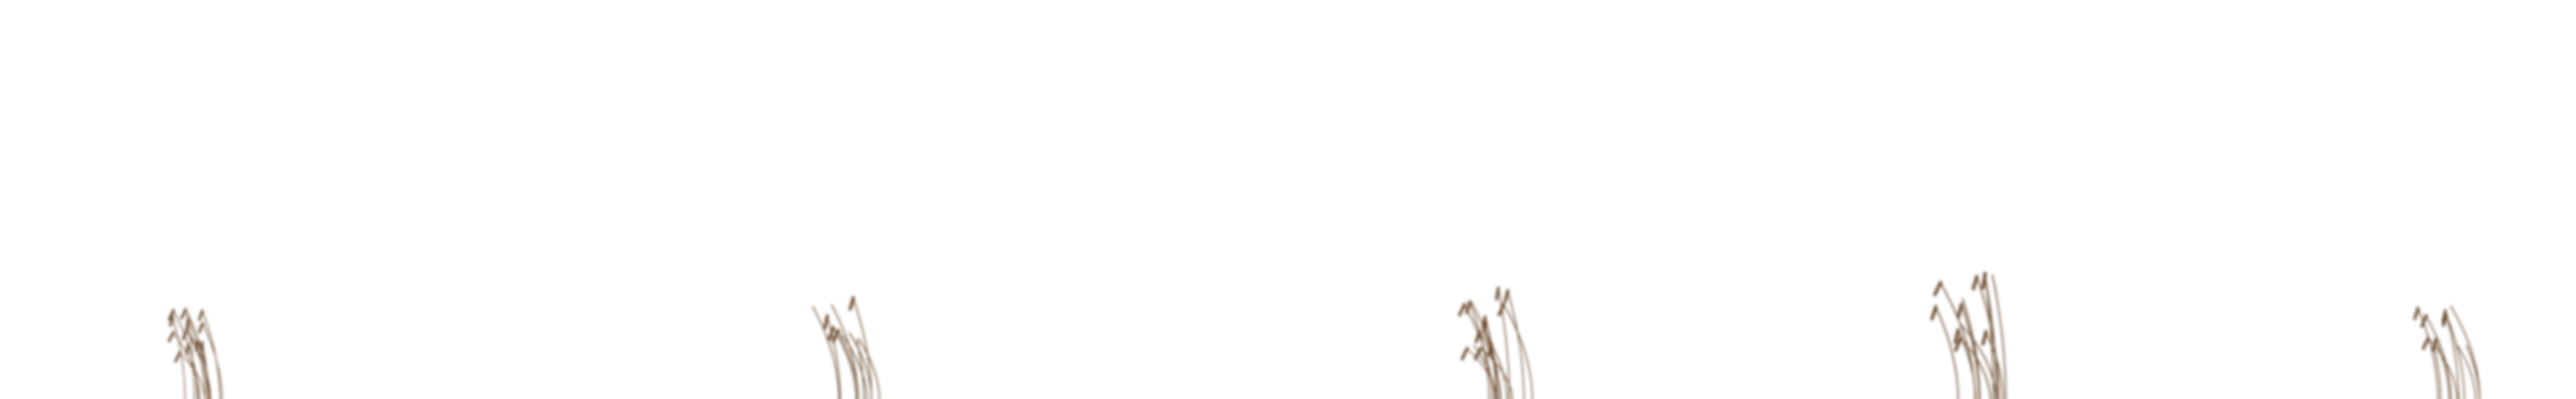
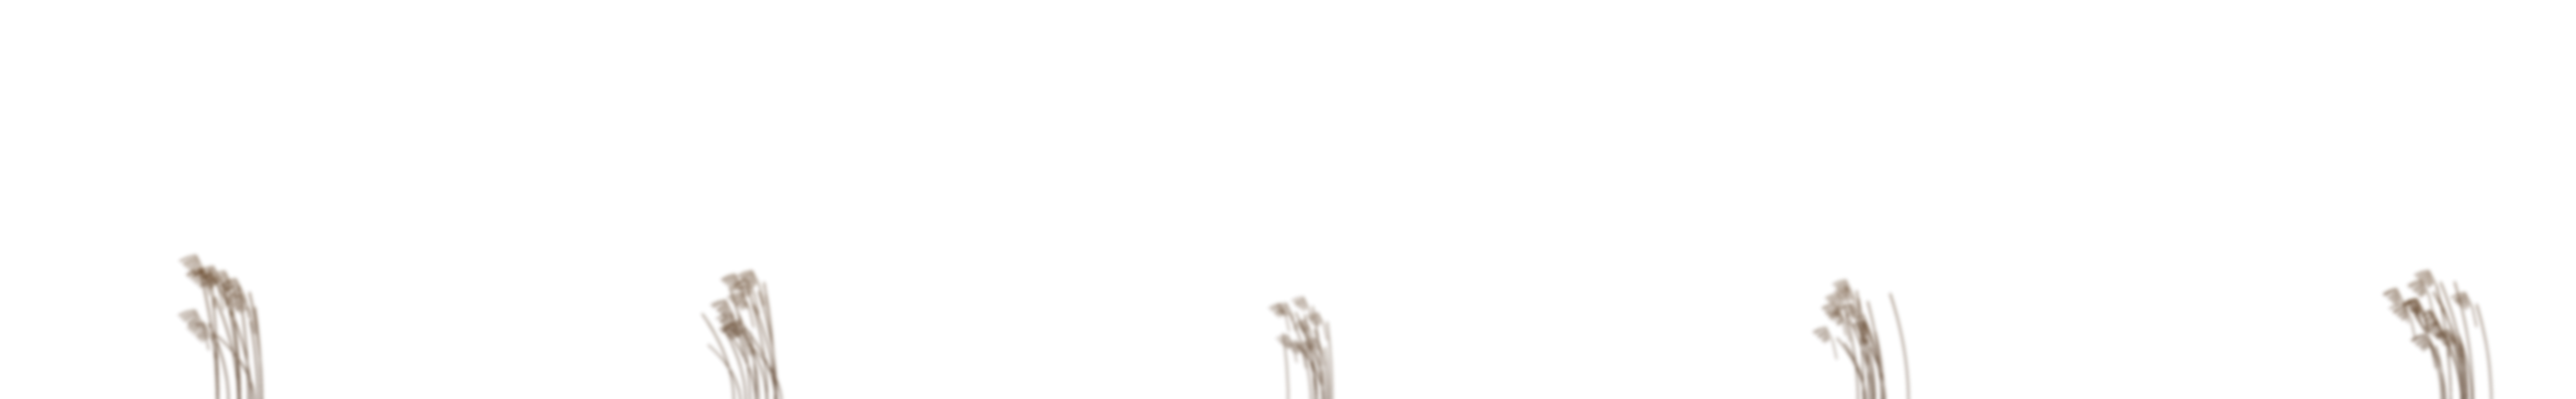
배경 그림 마무리(질감·빛·흐림)와 입체 구름, 억새 이삭 (#140)
클립아트처럼 납작하다는 의견을 받아 그린 뒤 픽셀로 손을 보는 과정을 더했다.
- painterly(): 도형 안 세로 빛(위 따뜻하게, 아래 하늘빛 그늘), 해 쪽 가장자리 빛과
  반대쪽 그늘(모양마다 저절로), 가로로 긴 붓결과 종이 낟알, 깊이 흐림(먼 층·맨 앞 층).
  층 이름별 값은 PAINT 표, 장소마다 finish()로 건다. 조각 경계에 테두리가 생기지 않게.
- paint_clouds(): 덩어리를 부드럽게 합친 뭉게구름. 해 쪽이 밝고 아랫면은 평평하게
  그늘지며 해 가까운 아랫면은 노을빛.
- 들판: 산을 낮추고, 은빛 억새 이삭(_plume)을 밭과 언덕, 앞 층 덤불에.
- 장소 그리기를 tools/painters/<place>.py로 나눌 수 있게(painter_for).

Claude-Session: https://claude.ai/code/session_01J4uuBjb9dFExxEE8Rhw3pJ

diff --git a/tools/placeholder_art.py b/tools/placeholder_art.py
@@ -82,6 +82,7 @@ class Layer:
         self.background = background  # 1x, 층 전체 폭 (하늘처럼 픽셀로 만든 바탕)
         self.blur_groups: list[tuple[list[tuple], float]] = []  # (도형들, 흐림 반지름) 도형 아래
         self.haze_groups: list[tuple[list[tuple], float]] = []  # 도형 위
+        self.post = None  # (tile, x0) -> tile. 그림 마무리(질감·빛·흐림, painterly)
 
     def rect(self, x0, y0, x1, y1, color):
         self.poly([(x0, y0), (x1, y0), (x1, y1), (x0, y1)], color)
@@ -158,7 +159,164 @@ class Layer:
         if self.background is not None:
             bg = self.background.crop((x0, 0, x0 + w, H))
             tile = Image.alpha_composite(bg, tile)
+        if self.post is not None:
+            tile = self.post(tile, x0)
         return tile
+
+
+
+# ---------------------------------------------------------------- 그림 마무리 (painterly, #140)
+#
+# 단색 도형만으로는 클립아트처럼 납작하다. 층을 그린 뒤 픽셀로 손을 본다.
+#   1. 도형 안 세로 빛: 위는 밝고 따뜻하게, 아래는 어둡고 차갑게(하늘빛 그늘).
+#   2. 해 쪽(오른쪽 위) 가장자리 빛, 반대쪽 가장자리 그늘 — 모양마다 저절로.
+#   3. 붓결 질감: 가로로 긴 결(붓질)과 고운 낟알(종이). 모양 안에서만.
+#   4. 깊이 흐림: 먼 층과 맨 앞 층은 초점이 나간 듯.
+# 값은 층 이름(PAINT)으로 정한다. 같은 장소의 층은 같은 해 방향·빛 색을 쓴다(paint_light).
+
+PAINT = {
+    #           흐림  결    낟알   위밝기 아래어둠 테두리 그늘
+    "sky":     (0.0, 0.020, 0.012, 0.00, 0.00, 0.0, 0.0),
+    "horizon": (2.2, 0.030, 0.010, 0.06, 0.10, 0.35, 0.10),
+    "far":     (1.4, 0.040, 0.012, 0.08, 0.14, 0.55, 0.16),
+    "hills":   (0.9, 0.050, 0.014, 0.10, 0.18, 0.75, 0.22),
+    "mid":     (0.5, 0.060, 0.016, 0.12, 0.22, 0.85, 0.26),
+    "near":    (0.0, 0.070, 0.018, 0.12, 0.26, 1.00, 0.30),
+    "ground":  (0.0, 0.060, 0.020, 0.06, 0.20, 0.50, 0.20),
+    "props":   (0.0, 0.050, 0.016, 0.08, 0.20, 0.90, 0.30),
+    "front":   (3.0, 0.040, 0.010, 0.00, 0.20, 0.30, 0.10),
+}
+
+
+def _hash_noise(xs: np.ndarray, ys: np.ndarray, sx: float, sy: float, seed: int) -> np.ndarray:
+    """값 잡음(0~1). 세계 좌표 xs·ys 격자(크기 sx×sy)에서 매끄럽게 이어진다(조각끼리 이음매 없음)."""
+    gx, gy = xs / sx, ys / sy
+    ix, iy = np.floor(gx).astype(np.int64), np.floor(gy).astype(np.int64)
+    fx, fy = gx - ix, gy - iy
+    fx, fy = fx * fx * (3 - 2 * fx), fy * fy * (3 - 2 * fy)
+
+    def h(a, b):
+        v = (a * 73856093) ^ (b * 19349663) ^ (seed * 83492791)
+        v = (v ^ (v >> 13)) * 1274126177
+        return ((v ^ (v >> 16)) & 0xFFFF) / 65535.0
+
+    a, b = h(ix, iy), h(ix + 1, iy)
+    c, d = h(ix, iy + 1), h(ix + 1, iy + 1)
+    return (a + (b - a) * fx) * (1 - fy) + (c + (d - c) * fx) * fy
+
+
+def _shift(a: np.ndarray, dx: int, dy: int) -> np.ndarray:
+    """a를 (dx, dy)만큼 민다. out[y, x] = a[y + dy, x + dx]. 밖은 가장자리 값을 늘려 쓴다
+    (조각 경계에서 테두리 빛이 생기지 않게)."""
+    hgt, wid = a.shape
+    yi = np.clip(np.arange(hgt) + dy, 0, hgt - 1)
+    xi = np.clip(np.arange(wid) + dx, 0, wid - 1)
+    return a[yi][:, xi]
+
+
+def painterly(name: str, seed: int, light: tuple[int, int, int], shade: tuple[int, int, int]):
+    """층 이름에 맞는 마무리 함수를 만든다. light = 해빛 색, shade = 그늘에 섞을 하늘빛."""
+    blur, streak, grain, top, bottom, rim, dark = PAINT[name]
+
+    def post(tile: Image.Image, x0: int) -> Image.Image:
+        arr = np.asarray(tile).astype(np.float32) / 255.0
+        rgb, a = arr[:, :, :3], arr[:, :, 3]
+        hgt, wid = a.shape
+        yy, xx = np.mgrid[0:hgt, 0:wid].astype(np.float32)
+        xx += x0
+        if name != "sky":
+            # 1. 세로 빛: 모양이 있는 줄의 위·아래에 맞춰
+            rows = np.where(a.max(axis=1) > 0.02)[0]
+            if rows.size:
+                y0, y1 = float(rows[0]), float(rows[-1])
+                t = np.clip((yy - y0) / max(y1 - y0, 1.0), 0, 1)[:, :, None]
+                lit = np.array(light, np.float32) / 255.0
+                sh = np.array(shade, np.float32) / 255.0
+                rgb = rgb + (lit - rgb) * (1 - t) * top
+                rgb = rgb * (1 - t * bottom) + sh * t * bottom * 0.5
+            # 2. 가장자리 빛·그늘(해는 오른쪽 위)
+            d = 3
+            edge_lit = np.clip(a - _shift(a, d, -d), 0, 1)
+            edge_dark = np.clip(a - _shift(a, -d * 2, d * 2), 0, 1)
+            el = np.asarray(Image.fromarray((edge_lit * 255).astype(np.uint8)).filter(ImageFilter.GaussianBlur(1.6))).astype(np.float32) / 255.0
+            ed = np.asarray(Image.fromarray((edge_dark * 255).astype(np.uint8)).filter(ImageFilter.GaussianBlur(4))).astype(np.float32) / 255.0
+            lit = np.array(light, np.float32) / 255.0
+            rgb = rgb + (lit - rgb) * (el * rim * 0.8)[:, :, None]
+            rgb = rgb * (1 - (ed * dark)[:, :, None])
+        # 3. 붓결(가로로 긴 결) + 낟알
+        n = (_hash_noise(xx, yy, 90, 9, seed) - 0.5) * 0.6 + (_hash_noise(xx, yy, 26, 4, seed + 1) - 0.5) * 0.4
+        g = _hash_noise(xx, yy, 2.2, 2.2, seed + 2) - 0.5
+        rgb = rgb * (1 + (n * streak * 2 + g * grain * 2))[:, :, None]
+        arr = np.concatenate([np.clip(rgb, 0, 1), a[:, :, None]], axis=2)
+        out = Image.fromarray((arr * 255 + 0.5).astype(np.uint8), "RGBA")
+        # 4. 깊이 흐림(미리 곱한 알파로 흐려 가장자리가 검게 번지지 않게)
+        if blur > 0:
+            pm = np.asarray(out).astype(np.float32)
+            pm[:, :, :3] *= pm[:, :, 3:4] / 255.0
+            bl = np.asarray(Image.fromarray(pm.astype(np.uint8), "RGBA").filter(ImageFilter.GaussianBlur(blur))).astype(np.float32)
+            al = np.maximum(bl[:, :, 3:4], 1e-3)
+            bl[:, :, :3] = np.where(al > 1, bl[:, :, :3] * 255.0 / al, 0)
+            out = Image.fromarray(np.clip(bl, 0, 255).astype(np.uint8), "RGBA")
+        return out
+
+    return post
+
+
+def finish(layers: dict[str, "Layer"], place_id: str, light: tuple[int, int, int], shade: tuple[int, int, int]) -> dict[str, "Layer"]:
+    """장소의 모든 층에 그림 마무리를 건다(같은 해빛·그늘 색)."""
+    for name, layer in layers.items():
+        if name in PAINT:
+            layer.post = painterly(name, abs(hash((place_id, name))) % 100000, light, shade)
+    return layers
+
+
+
+def paint_clouds(img: Image.Image, rng: random.Random, n: int, w: int, y0: float, y1: float,
+                 sun: tuple[float, float], lit: tuple[int, int, int], shade: tuple[int, int, int],
+                 glow: tuple[int, int, int], size: tuple[float, float] = (300, 640)) -> None:
+    """뭉게구름을 하늘 그림에 직접 칠한다(img를 바꾼다). 둥근 덩어리 여럿을 잡음으로 흔든 모양,
+    해 쪽 위는 밝고 아래는 평평하게 그늘지고, 해에 가까운 아랫면은 노을빛으로 물든다."""
+    arr = np.asarray(img).astype(np.float32)
+    seed = rng.randint(0, 99999)
+    for k in range(n):
+        cx, cy = rng.uniform(0, w), rng.uniform(y0, y1)
+        cw = rng.uniform(*size)
+        puffs = []
+        for _ in range(rng.randint(6, 10)):
+            ox = rng.uniform(-0.45, 0.45) * cw
+            r = rng.uniform(0.10, 0.2) * cw * (1.25 - abs(ox) / cw)
+            puffs.append((cx + ox, cy - rng.uniform(0.0, 0.9) * r, r))
+        base = cy + cw * 0.06  # 평평한 아랫면
+        bx0, bx1 = int(max(0, cx - cw * 0.75)), int(min(w, cx + cw * 0.75))
+        by0, by1 = int(max(0, cy - cw * 0.45)), int(min(img.height, base + 20))
+        if bx1 <= bx0 or by1 <= by0:
+            continue
+        yy, xx = np.mgrid[by0:by1, bx0:bx1].astype(np.float32)
+        # 덩어리들을 부드럽게 합친 밀도(작은 최솟값 대신 지수 합 — 이음매가 없다)
+        acc = np.zeros_like(xx)
+        for px, py, r in puffs:
+            dx, dy = (xx - px) / r, (yy - py) / r
+            acc += np.exp(-(dx * dx + dy * dy) * 2.2)
+        dens = acc - 0.35
+        dens += (_hash_noise(xx, yy, 22, 16, seed + k) - 0.5) * 0.12 * np.clip(acc * 3, 0, 1)
+        dens *= np.clip((base - yy) / 14.0, 0, 1)  # 아랫면을 자른다
+        a = np.clip(dens / 0.16, 0, 1)
+        # 빛: 밀도의 기울기를 표면 방향으로 보고, 해 쪽(오른쪽 위)을 향한 면이 밝다
+        gy, gx = np.gradient(np.asarray(Image.fromarray(np.clip(acc * 80, 0, 255).astype(np.uint8)).filter(ImageFilter.GaussianBlur(6))).astype(np.float32))
+        gl = np.sqrt(gx * gx + gy * gy) + 1e-3
+        nx, ny = -gx / gl, -gy / gl
+        sdx, sdy = sun[0] - cx, sun[1] - cy
+        sl = math.hypot(sdx, sdy) or 1.0
+        light = np.clip(0.68 + 0.34 * (nx * sdx / sl * 0.7 - ny * 0.7), 0, 1)
+        under = np.clip((yy - (cy - cw * 0.05)) / (base - cy + cw * 0.05 + 1), 0, 1)
+        light = light * (1 - under * 0.55)
+        near_sun = max(0.0, 1 - abs(cx - sun[0]) / 1200.0)
+        lit_c, sh_c, gl_c = (np.array(c, np.float32) for c in (lit, shade, glow))
+        col = sh_c + (lit_c - sh_c) * light[:, :, None]
+        col = col + (gl_c - col) * (under * (0.35 + near_sun * 0.5))[:, :, None] * (1 - light[:, :, None] * 0.5)
+        reg = arr[by0:by1, bx0:bx1, :3]
+        arr[by0:by1, bx0:bx1, :3] = reg + (col - reg) * (a * 0.95)[:, :, None]
+    img.paste(Image.fromarray(np.clip(arr, 0, 255).astype(np.uint8), "RGBA"))
 
 
 def vertical_gradient(width: int, stops: list[tuple[float, tuple[int, int, int]]]) -> Image.Image:
@@ -311,6 +469,19 @@ def _hay_bale(L: Layer, x: float, y: float, r: float, body: Color, lit: Color, s
     L.ellipse((x + r * 0.1, y - r * 1.45, x + r * 0.7, y - r * 0.45), _with_alpha(body, 120))
 
 
+def _plume(L: Layer, rng: random.Random, x: float, y: float, size: float, color: Color, stem: Color, lean: float = -1.0) -> None:
+    """억새 이삭: 휘어진 줄기 끝에 가는 털 여러 가닥이 바람 쪽(왼쪽)으로 흩날린다."""
+    tx, ty = x + lean * size * 0.35, y - size
+    L.line([(x, y), (x + lean * size * 0.12, y - size * 0.55), (tx, ty)], stem, max(1.0, size * 0.025))
+    for k in range(7):
+        t = k / 6
+        sx, sy = tx - lean * size * 0.02 * k, ty + size * 0.06 * k
+        ln = size * (0.42 - t * 0.18)
+        ang = math.radians(200 + t * 35 + rng.uniform(-8, 8)) if lean < 0 else math.radians(-20 - t * 35)
+        ex, ey = sx + math.cos(ang) * ln, sy - math.sin(ang) * ln * 0.35 + ln * 0.25
+        L.line([(sx, sy), ((sx + ex) / 2, (sy + ey) / 2 - ln * 0.06), (ex, ey)], color, max(1.0, size * 0.03))
+
+
 def _grass_tuft(L: Layer, rng: random.Random, x: float, base: float, scale: float, stem: Color, tip: Color, n: int) -> None:
     """들풀 한 포기: 휘어진 잎 여럿 + 끝의 밝은 이삭. 바람에 왼쪽으로 눕는다."""
     for _ in range(n):
@@ -319,11 +490,9 @@ def _grass_tuft(L: Layer, rng: random.Random, x: float, base: float, scale: floa
         lean = rng.uniform(-90, -15) * scale
         pts = [(bx + lean * (i / 10) ** 2, base - h * i / 10) for i in range(11)]
         L.line(pts, stem, max(1.4, 3.0 * scale))
-        if rng.random() < 0.7:  # 이삭(밀 이삭처럼 낟알 몇)
+        if rng.random() < 0.6:  # 억새 이삭
             tx, ty = pts[-1]
-            for k in range(5):
-                L.ellipse((tx + lean * 0.04 * k - 4 * scale, ty + k * 7 * scale - 5 * scale,
-                           tx + lean * 0.04 * k + 4 * scale, ty + k * 7 * scale + 5 * scale), tip)
+            _plume(L, rng, tx, ty + 60 * scale, 90 * scale, tip, stem)
 
 
 
@@ -429,17 +598,8 @@ def field(width: float, markers: dict[str, float]) -> dict[str, Layer]:
         rays.append(("poly", [(sun_x, sun_y), (sun_x + math.cos(a) * ln, sun_y + math.sin(a) * ln),
                               (sun_x + math.cos(a2) * ln, sun_y + math.sin(a2) * ln)], rgba(255, 236, 196, 46)))
     L.haze(rays, 18)
-    for _ in range(7):  # 뭉게구름: 아랫면이 해빛에 물든다
-        cx, cy = rng.uniform(0, w), rng.uniform(170, 430)
-        cw = rng.uniform(320, 620)
-        body, lit = [], []
-        for _ in range(rng.randint(5, 8)):
-            ox, r = rng.uniform(-0.45, 0.45) * cw, rng.uniform(0.12, 0.22) * cw
-            oy = rng.uniform(-0.6, 0.0) * r
-            body.append(("ellipse", (cx + ox - r, cy + oy - r * 0.62, cx + ox + r, cy + oy + r * 0.62), rgba(250, 238, 226, 200)))
-            lit.append(("ellipse", (cx + ox - r * 0.9, cy + oy + r * 0.05, cx + ox + r * 0.95, cy + oy + r * 0.62), rgba(255, 206, 160, 170)))
-        L.blur_groups.append((body, 2.5))
-        L.haze(lit, 4)
+    paint_clouds(sky, rng, 7, w, 160, 430, (sun_x, sun_y),
+                 lit=(255, 247, 234), shade=(196, 176, 200), glow=(255, 196, 150))
     L.ellipse((sun_x - 40, sun_y - 40, sun_x + 40, sun_y + 40), rgba(255, 250, 232))
     deco = random.Random("field_deco")
     wisps = []
@@ -454,7 +614,7 @@ def field(width: float, markers: dict[str, float]) -> dict[str, Layer]:
     # 지평선: 아주 먼 산맥. 거의 하늘색에 묻힌다.
     w = layer_width(width, "horizon")
     layers["horizon"] = L = Layer(w)
-    pts = ridge(rng, w, 470, 170, waves=4)
+    pts = ridge(rng, w, 535, 105, waves=4)
     _rim_ridge(L, pts, _fog((104, 126, 184), 0.5), rgba(*FIELD_RIM, 200), 2)
     _slope_shade(L, pts, rgba(80, 92, 150, 70), 260, 30)
     L.haze([("poly", [(-20, 560), (w + 20, 560), (w + 20, 640), (-20, 640)], rgba(*FIELD_HAZE, 150))], 30)
@@ -463,7 +623,7 @@ def field(width: float, markers: dict[str, float]) -> dict[str, Layer]:
     w = layer_width(width, "far")
     layers["far"] = L = Layer(w)
     body = _fog((104, 92, 132), 0.36)
-    pts = ridge(rng, w, 575, 95, waves=3)
+    pts = ridge(rng, w, 600, 70, waves=3)
     _rim_ridge(L, pts, body, rgba(*FIELD_RIM, 210), 2.5)
     _slope_shade(L, pts, rgba(70, 62, 110, 80), 200, 24)
     for vx in (rng.uniform(600, 1400), rng.uniform(2600, 3600)):
@@ -535,6 +695,12 @@ def field(width: float, markers: dict[str, float]) -> dict[str, Layer]:
         x = rng.uniform(0, w)
         y = _ridge_y(hill, x) + rng.uniform(8, 40)
         L.line([(x, y), (x + rng.uniform(60, 160), y + rng.uniform(2, 8))], _fog((186, 150, 90), 0.2, 150), 2)
+    plume_rng = random.Random("field_mid_plumes")
+    for _ in range(int(w / 12)):  # 먼 억새밭: 언덕 위 은빛 결
+        x = plume_rng.uniform(0, w)
+        y0 = _ridge_y(hill, x) + plume_rng.uniform(4, 30)
+        sz = plume_rng.uniform(12, 22)
+        _plume(L, plume_rng, x, y0, sz, _fog((236, 224, 200), 0.15, 200), _fog((150, 116, 70), 0.15, 160))
     x = rng.uniform(100, 400)
     while x < w:
         _blob_tree(L, rng, x, _ridge_y(hill, x) + 6, rng.uniform(34, 54), _fog((96, 80, 46), 0.1), rim)
@@ -576,6 +742,13 @@ def field(width: float, markers: dict[str, float]) -> dict[str, Layer]:
         h = rng.uniform(14, 40)
         lean = rng.uniform(-10, -3)
         L.line([(x, y0), (x + lean, y0 - h)], lerp_color(_fog((150, 108, 52), 0.05), rgba(250, 222, 150), rng.random() ** 1.5), rng.uniform(1.2, 2.2))
+    plume_rng = random.Random("field_plumes")
+    for _ in range(int(w / 16)):  # 억새 이삭: 밭 띠 위로 은빛 털이 흩날린다
+        x = plume_rng.uniform(0, w)
+        y0 = _ridge_y(band, x) + plume_rng.uniform(10, 46)
+        sz = plume_rng.uniform(30, 52)
+        c = lerp_color(rgba(214, 192, 160, 150), rgba(250, 236, 210, 180), plume_rng.random())
+        _plume(L, plume_rng, x, y0, sz, c, rgba(160, 120, 70, 200))
     flower_cols = [rgba(214, 64, 48), rgba(232, 92, 60), rgba(246, 240, 226), rgba(156, 124, 196), rgba(250, 214, 96)]
     x = 0.0
     while x < w:  # 들꽃 무리: 한 색이 모여 핀다
@@ -664,7 +837,7 @@ def field(width: float, markers: dict[str, float]) -> dict[str, Layer]:
         _grass_tuft(tuft, rng, x, H + 10, rng.uniform(0.8, 1.3), rgba(96, 62, 30, 235), rgba(150, 100, 44, 235), rng.randint(10, 16))
         L.under(tuft.shapes, 4)
         x += rng.uniform(900, 1900)
-    return layers
+    return finish(layers, "field", (255, 222, 168), (96, 108, 168))
 
 
 def sag(xa: float, ya: float, xb: float, yb: float, depth: float, n: int = 16) -> list[tuple[float, float]]:
@@ -1976,9 +2149,23 @@ PAINTERS = {
 }
 
 
+def painter_for(place_id: str):
+    """장소 그리기 함수. tools/painters/<place_id>.py에 paint(width, markers)가 있으면 그것을 쓴다(#140 —
+    장소마다 파일을 나눠 여럿이 함께 고칠 수 있게). 없으면 이 파일의 PAINTERS."""
+    path = ROOT / "tools/painters" / f"{place_id}.py"
+    if path.exists():
+        import importlib.util
+        sys.path.insert(0, str(ROOT / "tools"))
+        spec = importlib.util.spec_from_file_location(f"painters_{place_id}", path)
+        mod = importlib.util.module_from_spec(spec)
+        spec.loader.exec_module(mod)
+        return mod.paint
+    return PAINTERS[place_id]
+
+
 def build(place_id: str) -> None:
     width, markers = read_place(place_id)
-    layers = PAINTERS[place_id](width, markers)
+    layers = painter_for(place_id)(width, markers)
     out = OUT_DIR / place_id
     out.mkdir(parents=True, exist_ok=True)
     for old in out.glob(f"bg_{place_id}_*.png"):

diff --git a/tools/painters/README.md b/tools/painters/README.md
@@ -1,0 +1,8 @@
+# 장소 그리기 (tools/painters)
+
+`python3 tools/placeholder_art.py <place_id>`는 이 폴더에 `<place_id>.py`가 있으면 그 파일의 `paint(width, markers)`로 그린다(없으면 `placeholder_art.py`의 `PAINTERS`).
+
+- 파일 맨 위에서 `import placeholder_art as pa`로 바탕 도구(`pa.Layer`, `pa.ridge`, `pa.paint_clouds`, `pa.finish`, `pa._plume`·`pa._oak` 같은 도우미)를 가져다 쓴다(밑줄 이름은 `import *`로 안 온다).
+- `paint`는 층 이름 → `Layer` 사전을 돌려준다. 층: `sky`·`horizon`·`far`·`hills`·`mid`·`near`·`ground`·`props`·`front`(있는 것만).
+- 마지막에 `finish(layers, place_id, 해빛 색, 그늘 색)`으로 그림 마무리(질감·빛·흐림, `PAINT` 표)를 건다.
+- 화풍 기준은 금빛 들판(`placeholder_art.py`의 `field`): 실루엣 층을 겹치고 멀수록 지평선 빛에 녹이며, 해 쪽 가장자리에 빛.
